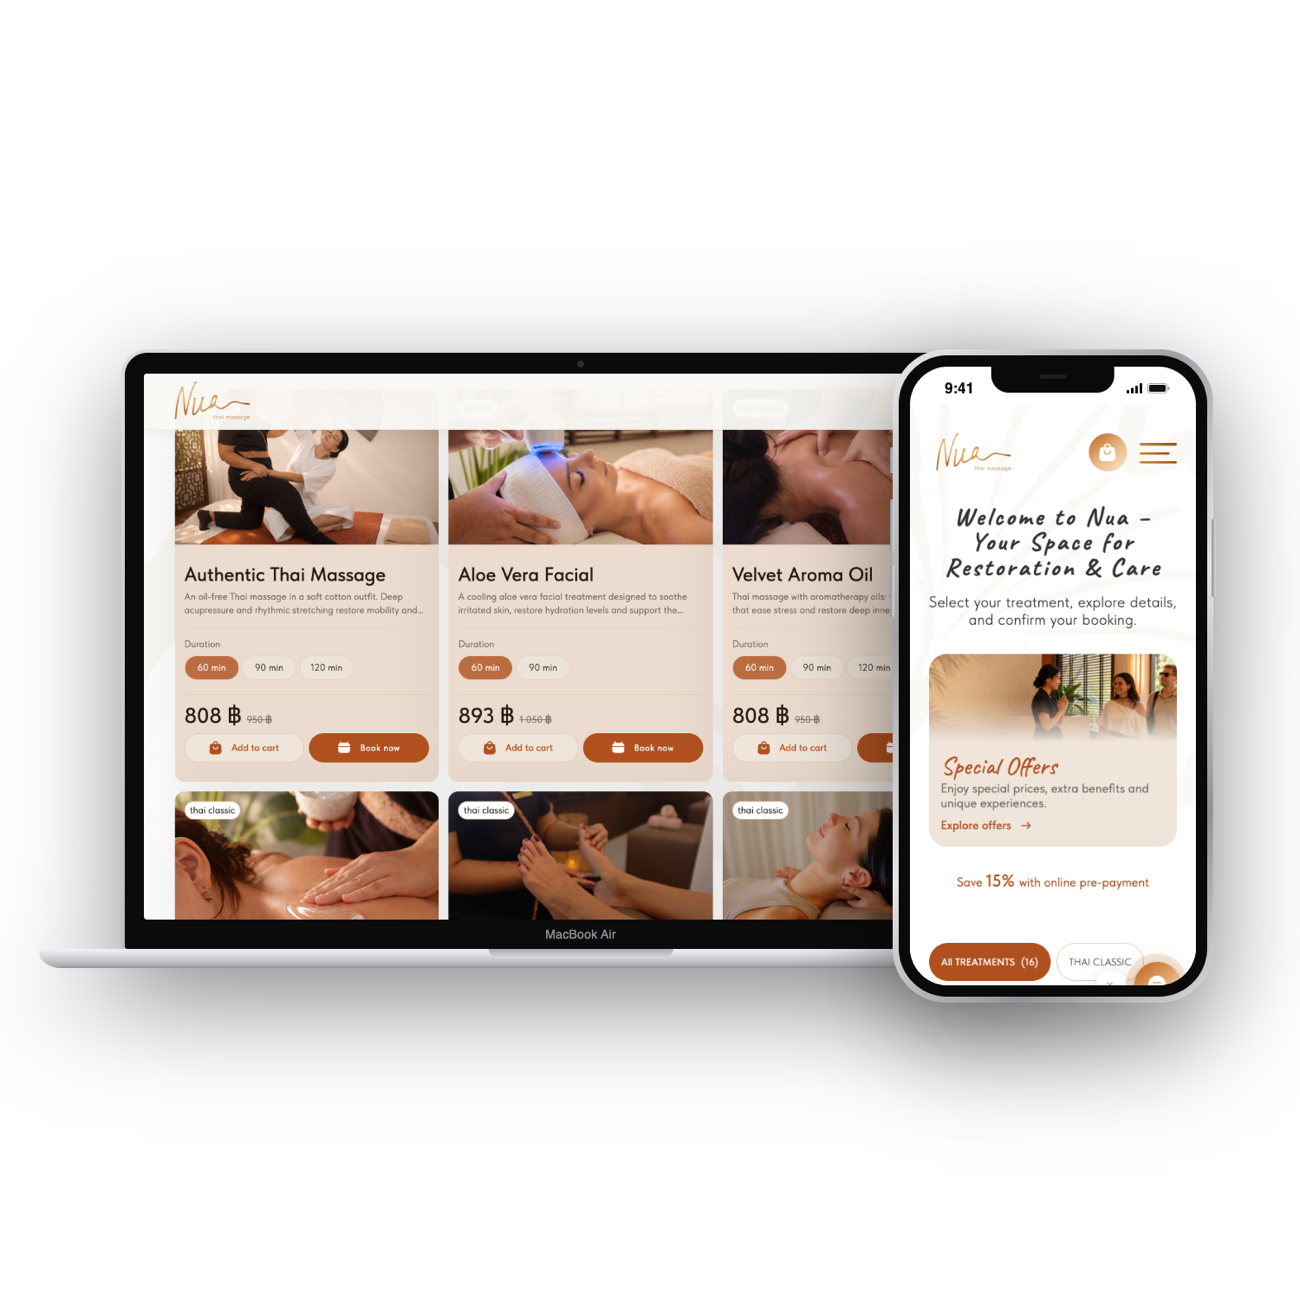
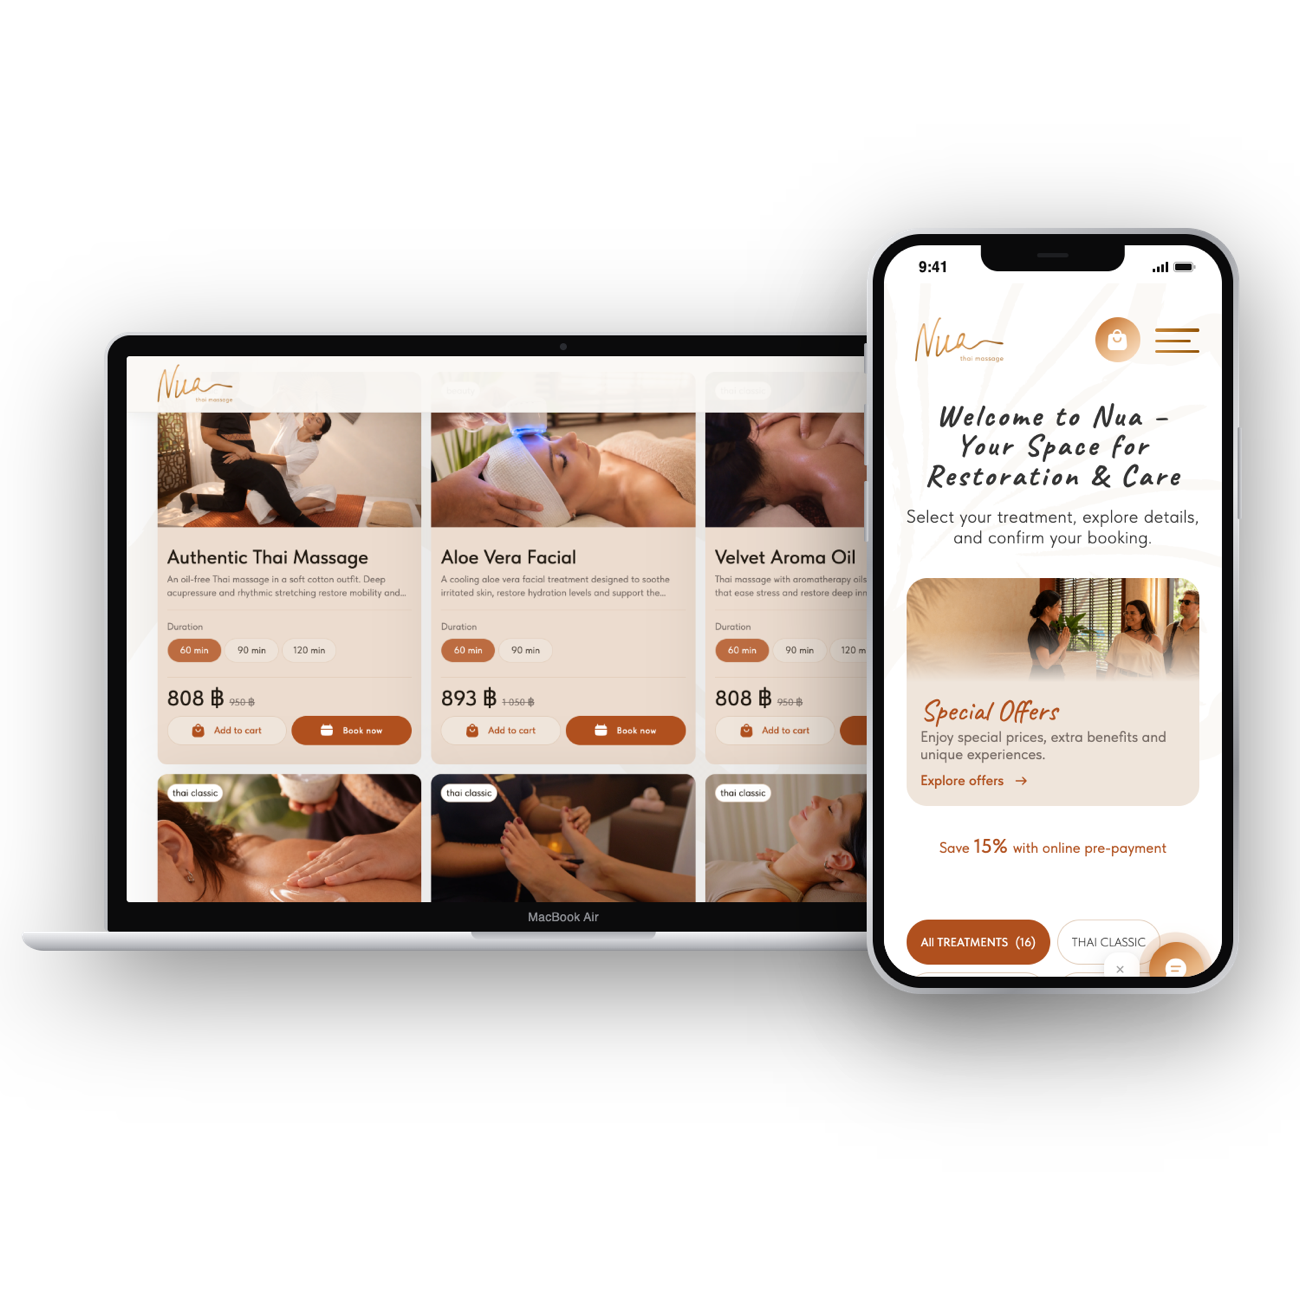
Обложка Nua: телефон крупнее

Changed region(s): [[0.0, 0.1538, 0.9846, 0.7692]]

diff --git a/index.html b/index.html
@@ -89,7 +89,7 @@
         <h2 class="section__title">Проекты</h2>
         <div class="projects">
         <a class="project-card" href="projects/nua.html">
-          <div class="project-card__img"><img src="img/projects/nua.png?v=3" alt="Сайт для спа-салона Nua" loading="lazy"></div>
+          <div class="project-card__img"><img src="img/projects/nua.png?v=4" alt="Сайт для спа-салона Nua" loading="lazy"></div>
           <h3 class="project-card__title">Сайт для&nbsp;спа-салона Nua<span class="project-card__badge">новый</span></h3>
           <p class="project-card__text">Структура, дизайн и&nbsp;вёрстка на&nbsp;Webflow для&nbsp;салона тайского массажа с&nbsp;двумя филиалами: сложная корзина, оплата через Stripe, уведомления в&nbsp;WhatsApp</p>
         </a>
